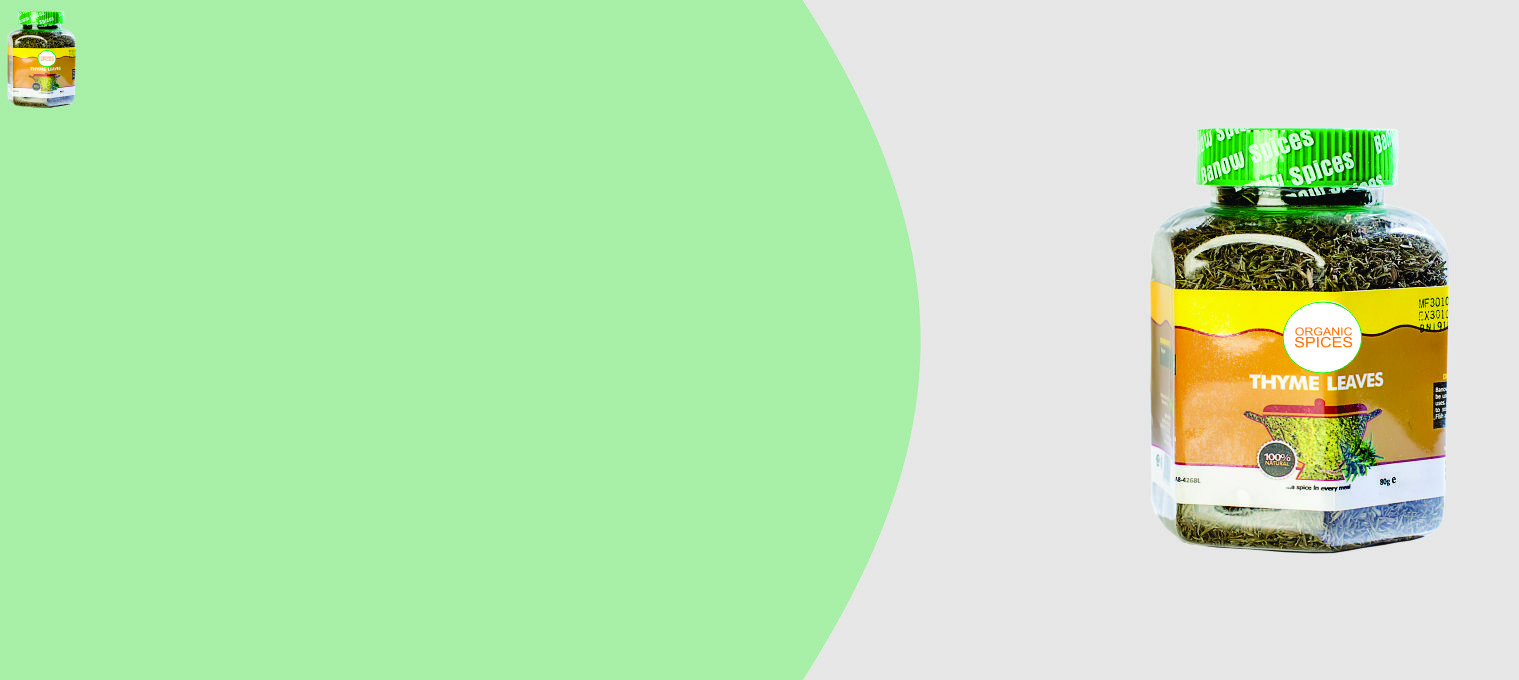
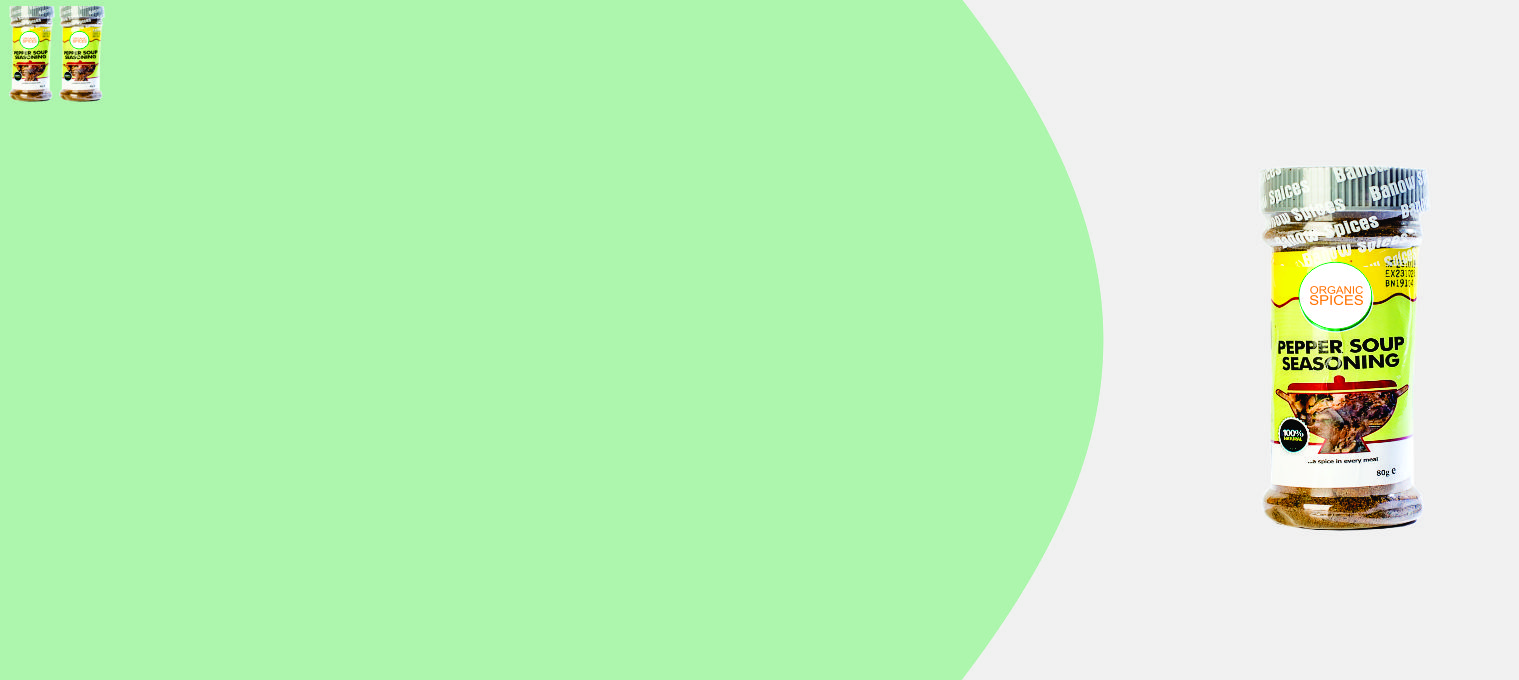
updated Slider

Changed region(s): [[0.526, 0.0, 0.9592, 1.0], [0.0, 0.0, 0.0928, 0.1544]]

diff --git a/resources/views/layouts/slider.blade.php b/resources/views/layouts/slider.blade.php
@@ -9,7 +9,7 @@
           <div id="rev_slider_home" class="rev_slider fullwidthabanner" style="display:none;" data-version="5.0.7">
             <ul>
               <!-- SLIDE 1 -->
-              <li data-index="rs-1" data-transition="slidingoverlayhorizontal" data-slotamount="default" data-easein="default" data-easeout="default" data-masterspeed="default" data-thumb="http://placehold.it/1920x680" data-rotate="0"  data-fstransition="fade" data-fsmasterspeed="1500" data-fsslotamount="7" data-saveperformance="off" data-title="Make an Impact">
+              <li data-index="rs-1" data-transition="slidingoverlayhorizontal" data-slotamount="default" data-easein="default" data-easeout="default" data-masterspeed="default" data-thumb="" data-rotate="0"  data-fstransition="fade" data-fsmasterspeed="1500" data-fsslotamount="7" data-saveperformance="off" data-title="Make an Impact">
                 <!-- MAIN IMAGE -->
                 <img src="/images/first-slider.jpg" alt="" data-bgposition="center center" data-bgfit="cover" data-bgrepeat="no-repeat"  class="rev-slidebg" data-no-retina>
                 <!-- LAYERS -->
@@ -98,7 +98,7 @@
               </li>
 
               <!-- SLIDE 2 -->
-              <li data-index="rs-2" data-transition="slidingoverlayhorizontal" data-slotamount="default" data-easein="default" data-easeout="default" data-masterspeed="default" data-thumb="http://placehold.it/1600x780" data-rotate="0"  data-fstransition="fade" data-fsmasterspeed="1500" data-fsslotamount="7" data-saveperformance="off" data-title="Make an Impact">
+              <li data-index="rs-2" data-transition="slidingoverlayhorizontal" data-slotamount="default" data-easein="default" data-easeout="default" data-masterspeed="default" data-thumb="" data-rotate="0"  data-fstransition="fade" data-fsmasterspeed="1500" data-fsslotamount="7" data-saveperformance="off" data-title="Make an Impact">
                 <!-- MAIN IMAGE -->
                 <img src="/images/second-slider.jpg" alt="" data-bgposition="center center" data-bgfit="cover" data-bgrepeat="no-repeat" data-bgparallax="10" class="rev-slidebg" data-no-retina>
                 <!-- LAYERS -->
@@ -212,7 +212,7 @@
               </li>
 
               <!-- SLIDE 3 -->
-              <li data-index="rs-3" data-transition="slidingoverlayhorizontal" data-slotamount="default" data-easein="default" data-easeout="default" data-masterspeed="default" data-thumb="http://placehold.it/1920x680" data-rotate="0"  data-fstransition="fade" data-fsmasterspeed="1500" data-fsslotamount="7" data-saveperformance="off" data-title="Make an Impact">
+              <li data-index="rs-3" data-transition="slidingoverlayhorizontal" data-slotamount="default" data-easein="default" data-easeout="default" data-masterspeed="default" data-thumb="" data-rotate="0"  data-fstransition="fade" data-fsmasterspeed="1500" data-fsslotamount="7" data-saveperformance="off" data-title="Make an Impact">
                 <!-- MAIN IMAGE -->
                 <img src="/images/third-slider.jpg" alt="" data-bgposition="center center" data-bgfit="cover" data-bgrepeat="no-repeat" data-bgparallax="10" class="rev-slidebg" data-no-retina>
                 <!-- LAYERS -->
